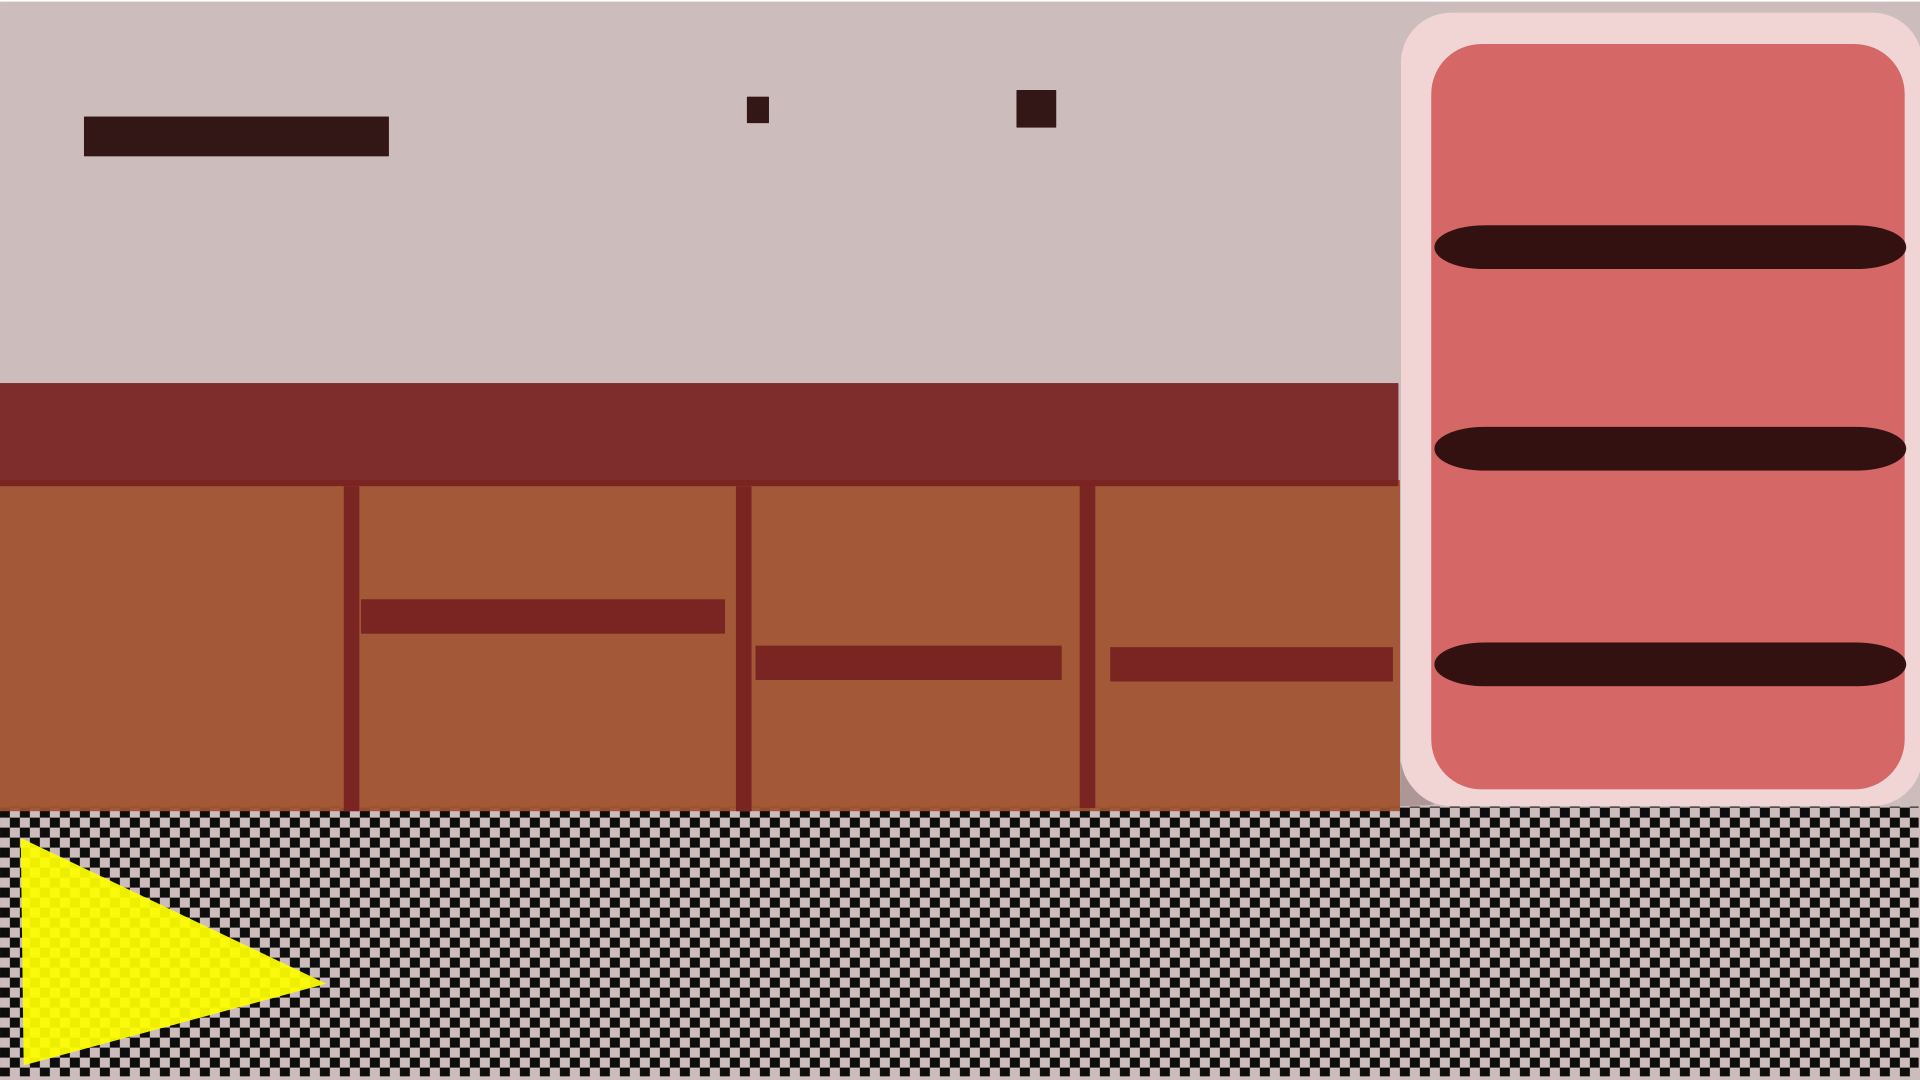
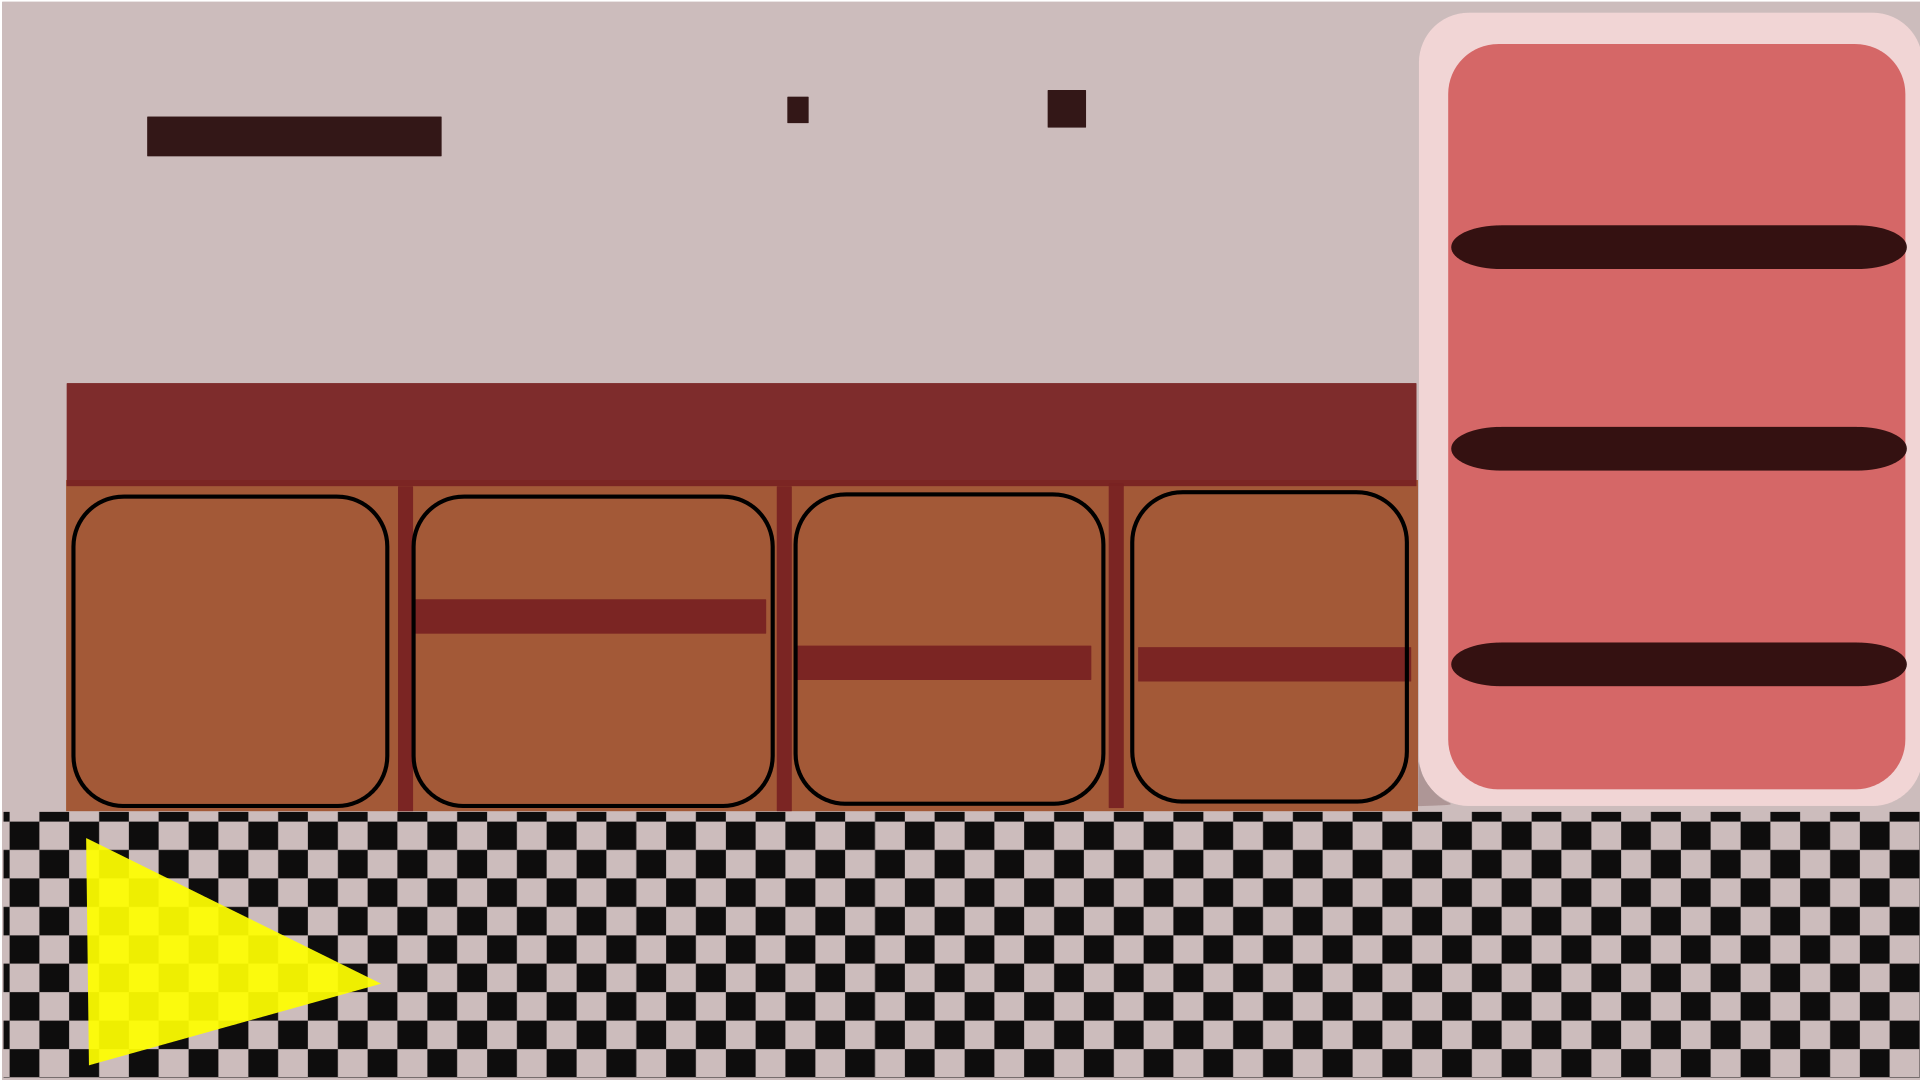
Добавлены классы, представляющие архитектуру мира. Реализованы рюкзак и класс констант

diff --git a/kitchen-0.qml b/kitchen-0.qml
@@ -5,6 +5,8 @@ import QtQuick.Dialogs 1.2
 
 Item{
     id: consts;
+    signal pickBag();
+
 property double scale: Screen.width/1920 > Screen.height/1080 ? Screen.height/1080 : Screen.width/1920;
     Image {
         id: bg;
@@ -17,7 +19,7 @@ property double scale: Screen.width/1920 > Screen.height/1080 ? Screen.height/10
     Image {
         id: doorRef;
 
-        x: 1400*consts.scale;
+        x: 1419*consts.scale;
         y: 13*consts.scale;
 
         height: sourceSize.height*consts.scale;
@@ -34,8 +36,8 @@ property double scale: Screen.width/1920 > Screen.height/1080 ? Screen.height/10
     Image {
         id: doorBot_0;
 
-        x: 10*consts.scale;
-        y: 500*consts.scale;
+        x: 75*consts.scale;
+        y: 493*consts.scale;
 
         height: sourceSize.height*consts.scale;
         width: sourceSize.width*consts.scale;
@@ -50,8 +52,8 @@ property double scale: Screen.width/1920 > Screen.height/1080 ? Screen.height/10
     Image {
         id: doorBot_1;
 
-        x: 361*consts.scale;
-        y: 500*consts.scale;
+        x: 412*consts.scale;
+        y: 493*consts.scale;
 
         height: sourceSize.height*consts.scale;
         width: sourceSize.width*consts.scale;
@@ -66,8 +68,8 @@ property double scale: Screen.width/1920 > Screen.height/1080 ? Screen.height/10
     Image {
         id: doorBot_2;
 
-        x: 755*consts.scale;
-        y: 500*consts.scale;
+        x: 796*consts.scale;
+        y: 493*consts.scale;
 
         height: sourceSize.height*consts.scale;
         width: sourceSize.width*consts.scale;
@@ -82,8 +84,8 @@ property double scale: Screen.width/1920 > Screen.height/1080 ? Screen.height/10
     Image {
         id: doorBot_3;
 
-        x: 1109*consts.scale;
-        y: 500*consts.scale;
+        x: 1128*consts.scale;
+        y: 493*consts.scale;
 
         height: sourceSize.height*consts.scale;
         width: sourceSize.width*consts.scale;

diff --git a/room-0.qml b/room-0.qml
@@ -5,7 +5,11 @@ import QtQuick.Dialogs 1.2
 
 Item{
     id: consts;
-property double scale: Screen.width/1920 > Screen.height/1080 ? Screen.height/1080 : Screen.width/1920;
+    signal pickBag();
+    property double scale: Screen.width/1920 > Screen.height/1080 ? Screen.height/1080 : Screen.width/1920;
+
+
+
     Image {
         id: bg;
         width: 1920*consts.scale;
@@ -14,5 +18,23 @@ property double scale: Screen.width/1920 > Screen.height/1080 ? Screen.height/10
         source: "img/0/room-0.png";
     }
 
+    Image{
+        id: bagI;
 
+        x: 560*consts.scale;
+        y: 320*consts.scale;
+
+        height: sourceSize.height*0.75*consts.scale;
+        width: sourceSize.width*0.75*consts.scale;
+
+        visible: !bag.isCatched;
+        source: "img/bag.png"
+        MouseArea{
+            anchors.fill: parent;
+            onClicked: {
+                consts.pickBag();
+                bagI.visible = false;
+            }
+        }
+    }
 }

diff --git a/main.qml b/main.qml
@@ -2,6 +2,7 @@ import QtQuick 2.4
 import QtQuick.Controls 1.3
 import QtQuick.Window 2.2
 import QtQuick.Dialogs 1.2
+import MyLib 1.0
 
 ApplicationWindow {
     id: win;
@@ -11,12 +12,17 @@ ApplicationWindow {
     height: 1080*scale;
     visible: true
 
+
+
     Loader {
         property int whatIsLoaded: 0;
         id: ld;
         source: "room-0.qml"
     }
-
+    Connections {
+        target: ld.item
+        onPickBag: pickBag();
+    }
 
     MouseArea{
         id: doorKitchen;
@@ -53,6 +59,20 @@ ApplicationWindow {
                 doorRoom.enabled = false;
             }
         }
+    }
+    Image {
+        id: bagLine;
+        visible: false;
+        height: sourceSize.height*win.scale;
+        width: sourceSize.width*win.scale;
+
+        source: "img/bagLine.png"
+
+    }
+
+    function pickBag(){
+        bagLine.visible = true;
+        bag.isCatched = true;
     }
 
    /* menuBar: MenuBar {

diff --git a/consts.cpp b/consts.cpp
@@ -1,0 +1,53 @@
+#include "consts.h"
+
+
+
+map<int,string> setMap(int cls);
+
+
+
+map<int,string> Consts::stuff = setMap(0);
+map<string,vector<Coord> > Consts::roomsCoords;
+
+Consts::Consts()
+{
+    vector<int> coords;
+    coords.push_back(100); coords.push_back(200);
+    coords.push_back(100); coords.push_back(500);
+    coords.push_back(500); coords.push_back(100);
+    coords.push_back(300); coords.push_back(500);
+    addRoom("room-0",coords);
+}
+
+Consts::~Consts()
+{
+
+}
+
+
+
+map<int,string> setMap(int cls)
+{
+   map<int,string> temp;
+   if (cls == 0){
+       temp[0] = "knife";
+       temp[1] = "lucifers";
+   }
+   else {
+       temp[0] = "s";
+   }
+   return temp;
+}
+
+
+void Consts::addRoom(string title,vector<int> coords)
+{
+    vector<Coord> vCoords;
+    for (unsigned int i=0;i<coords.size();i++){
+        Coord coord;
+        coord.x = coords[i++];
+        coord.y = coords[i];
+        vCoords.push_back(coord);
+    }
+    roomsCoords[title] = vCoords;
+}

diff --git a/bag.cpp b/bag.cpp
@@ -1,0 +1,65 @@
+#include "bag.h"
+
+Bag::Bag()
+{
+    _x = 500;
+    _y = 300;
+    _isCatched = false;
+
+    for(int i=0;i<6;i++)
+        whatIsIn.push_back("nothing");
+}
+
+Bag::~Bag()
+{
+
+}
+
+int Bag::x()
+{
+    return _x;
+}
+
+int Bag::y()
+{
+    return _y;
+}
+
+bool Bag::isCatched()
+{
+    return _isCatched;
+}
+
+void Bag::setX(int x){
+    _x = x;
+}
+
+int Bag::isFull()
+{
+    for (int i=0;i<6;i++)
+        if (whatIsIn.at(i) == "nothing")
+            return i;
+    return -1;
+}
+
+bool Bag::add(string str)
+{
+    int i = this->isFull();
+    if(i == -1)
+        return false;
+    whatIsIn[i] = str;
+    return true;
+}
+
+void Bag::remove(int i)
+{
+    whatIsIn[i] = "nothing";
+}
+
+void Bag::setY(int y){
+    _y = y;
+}
+
+void Bag::setIsCatched(bool u){
+    _isCatched = u;
+}

diff --git a/bag.h b/bag.h
@@ -1,0 +1,37 @@
+#ifndef BAG_H
+#define BAG_H
+
+#include<vector>
+#include<string>
+
+using std::string;
+using std::vector;
+
+class Bag
+{
+
+public:
+
+    int x();
+    int y();
+    bool isCatched();
+
+    void setX(int x);
+    void setY(int y);
+    void setIsCatched(bool u);
+
+    int isFull();
+    bool add(string);
+    void remove(int i);
+
+    vector<string> whatIsIn;
+
+    explicit Bag();
+    ~Bag();
+
+    int _x;
+    int _y;
+    bool _isCatched;
+};
+
+#endif // BAG_H

diff --git a/consts.h b/consts.h
@@ -1,0 +1,32 @@
+#ifndef CONSTS_H
+#define CONSTS_H
+
+#include <string>
+#include <map>
+#include<vector>
+
+using std::vector;
+using std::string;
+using std::map;
+
+struct Coord;
+
+class Consts
+{
+public:
+    static map<int,string> stuff;
+    static map<string,vector<Coord> > roomsCoords;
+
+    Consts();
+    ~Consts();
+
+    void addRoom(string,vector<int>);
+};
+
+#endif // CONSTS_H
+
+struct Coord
+{
+    int x;
+    int y;
+};

diff --git a/main.cpp b/main.cpp
@@ -1,12 +1,21 @@
 #include <QApplication>
 #include <QQmlApplicationEngine>
+#include <qqml.h>
+#include "bag.h"
+#include "consts.h"
+#include <iostream>
+
 
 int main(int argc, char *argv[])
 {
+    //std::cout<<Consts::stuff_I[2];
+
     QApplication app(argc, argv);
 
+    //qmlRegisterType<Bag>("MyLib",1,0,"Bag");
     QQmlApplicationEngine engine;
     engine.load(QUrl(QStringLiteral("qrc:/main.qml")));
 
     return app.exec();
 }
+

diff --git a/levelinfo.h b/levelinfo.h
@@ -1,0 +1,18 @@
+#ifndef LEVELINFO_H
+#define LEVELINFO_H
+
+#include <QObject>
+
+class LevelInfo : public QObject
+{
+    Q_OBJECT
+public:
+    explicit LevelInfo(QObject *parent = 0);
+    ~LevelInfo();
+
+signals:
+
+public slots:
+};
+
+#endif // LEVELINFO_H

diff --git a/levelinfo.cpp b/levelinfo.cpp
@@ -1,0 +1,12 @@
+#include "levelinfo.h"
+
+LevelInfo::LevelInfo(QObject *parent) : QObject(parent)
+{
+
+}
+
+LevelInfo::~LevelInfo()
+{
+
+}
+
